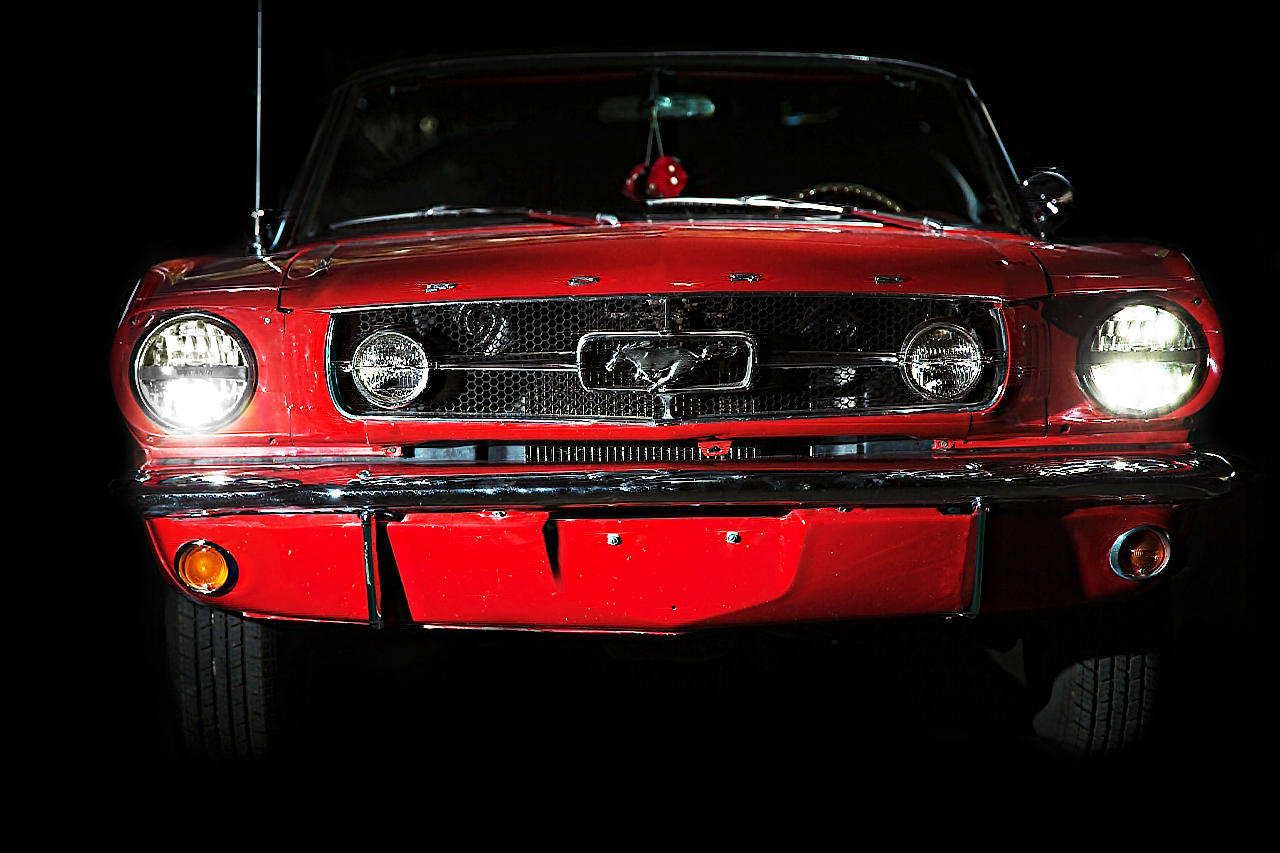
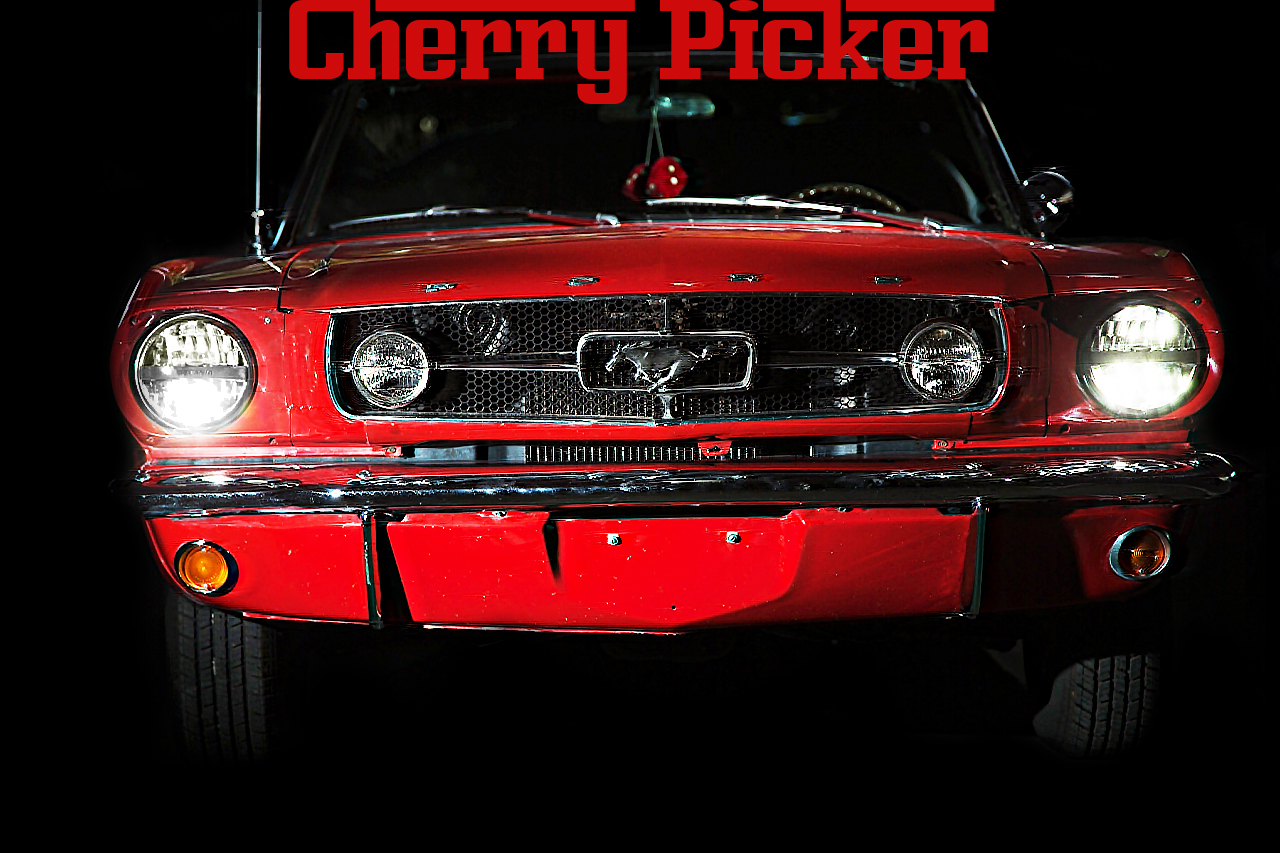
updated landing page

Changed region(s): [[0.2188, 0.0, 0.7812, 0.1219]]

diff --git a/moto-mern/src/components/Nav/index.js b/moto-mern/src/components/Nav/index.js
@@ -3,10 +3,10 @@ import { capitalizeFirstLetter } from "../../utils/helpers";
 
 function Nav() {
   const  categories = [
-    { name: 'place holder', description: 'Photos of grocery stores, food trucks, and other commercial projects' },
-    { name: 'place holder', description: 'Portraits of people in my life' },
-    { name: 'place holder', description: 'Delicious delicacies' },
-    { name: 'place holder', description: 'Fields, farmhouses, waterfalls, and the beauty of nature' }
+    { name: 'ShowVroom', description: 'Photos of grocery stores, food trucks, and other commercial projects' },
+    { name: 'Cherry Picker', description: 'Portraits of people in my life' },
+    { name: 'VIN Verify', description: 'Delicious delicacies' },
+    { name: 'Contact', description: 'Fields, farmhouses, waterfalls, and the beauty of nature' }
   ];
 
   const handleClick = () => {
@@ -15,11 +15,6 @@ function Nav() {
 
   return (
     <header data-testid="header" className="flex-row px-1">
-      <h2>
-        <a href="/">
-          <span role="img" aria-label="car"></span> moto mern
-        </a>
-      </h2>
       <nav>
         <ul className="flex-row">
           <li className="mx-2">
